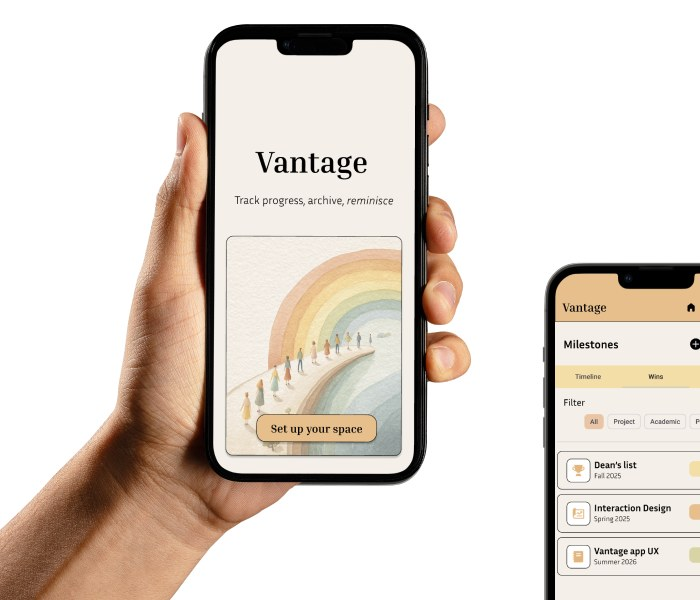
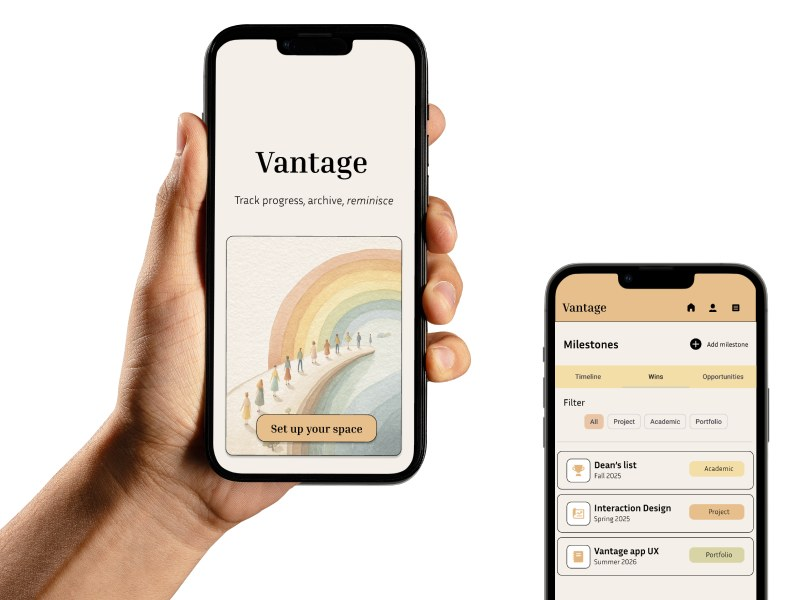
Fit the Vantage and Parallax previews inside their image boxes
Both images now show whole on white with a little padding instead of
being cropped to fill. Recrops the Vantage image so the second phone
is no longer cut off at the edge.

Changed region(s): [[0.03, 0.03, 1.0, 1.0]]

diff --git a/index.html b/index.html
@@ -4,7 +4,7 @@
     <meta charset="UTF-8">
     <meta name="viewport" content="width=device-width, initial-scale=1.0">
     <title>Manogna | Content designer</title>
-    <link rel="stylesheet" href="styles.css?v=30">
+    <link rel="stylesheet" href="styles.css?v=31">
   </head>
   <body class="home">
     <header class="nav">
@@ -68,7 +68,7 @@
           </div>
         </article>
         <article class="project-card" data-category="ux">
-          <div class="project-media">
+          <div class="project-media is-contain">
             <img src="Assets/vantage-card.jpg" alt="A hand holding a phone showing the Vantage welcome screen: Track progress, archive, reminisce, beside the Milestones screen">
           </div>
           <div class="project-body">
@@ -83,7 +83,7 @@
           </div>
         </article>
         <article class="project-card" data-category="ux">
-          <div class="project-media">
+          <div class="project-media is-contain">
             <img src="Assets/parallax-card.jpg" alt="Parallax screens: a July photo entry, and the splash screen held in a hand">
           </div>
           <div class="project-body">

diff --git a/styles.css b/styles.css
@@ -260,6 +260,16 @@ button:focus-visible,
   pointer-events: none;
 }
 
+/* Whole image shown on white instead of cropped to fill */
+.project-media.is-contain {
+  background: var(--bg);
+}
+
+.project-media.is-contain img {
+  object-fit: contain;
+  padding: 16px;
+}
+
 .project-body {
   display: flex;
   flex-direction: column;
